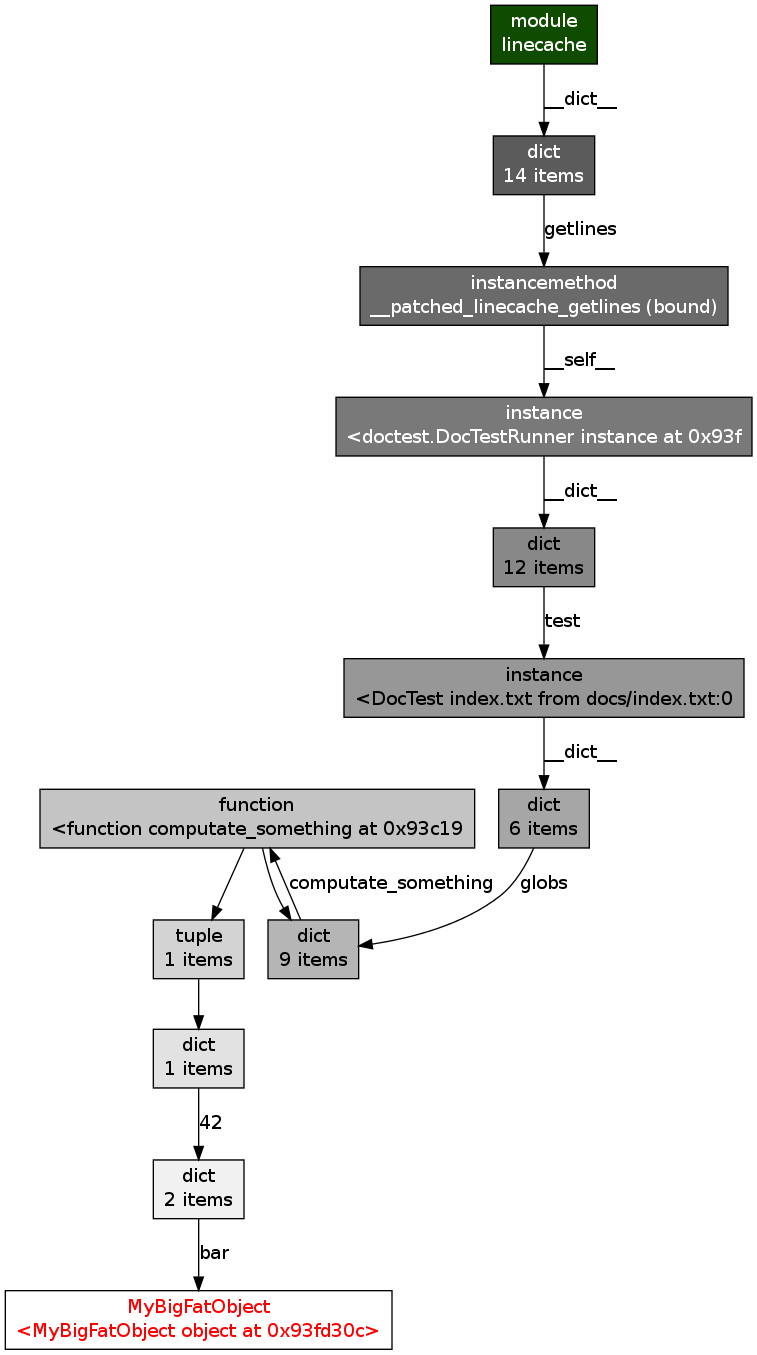
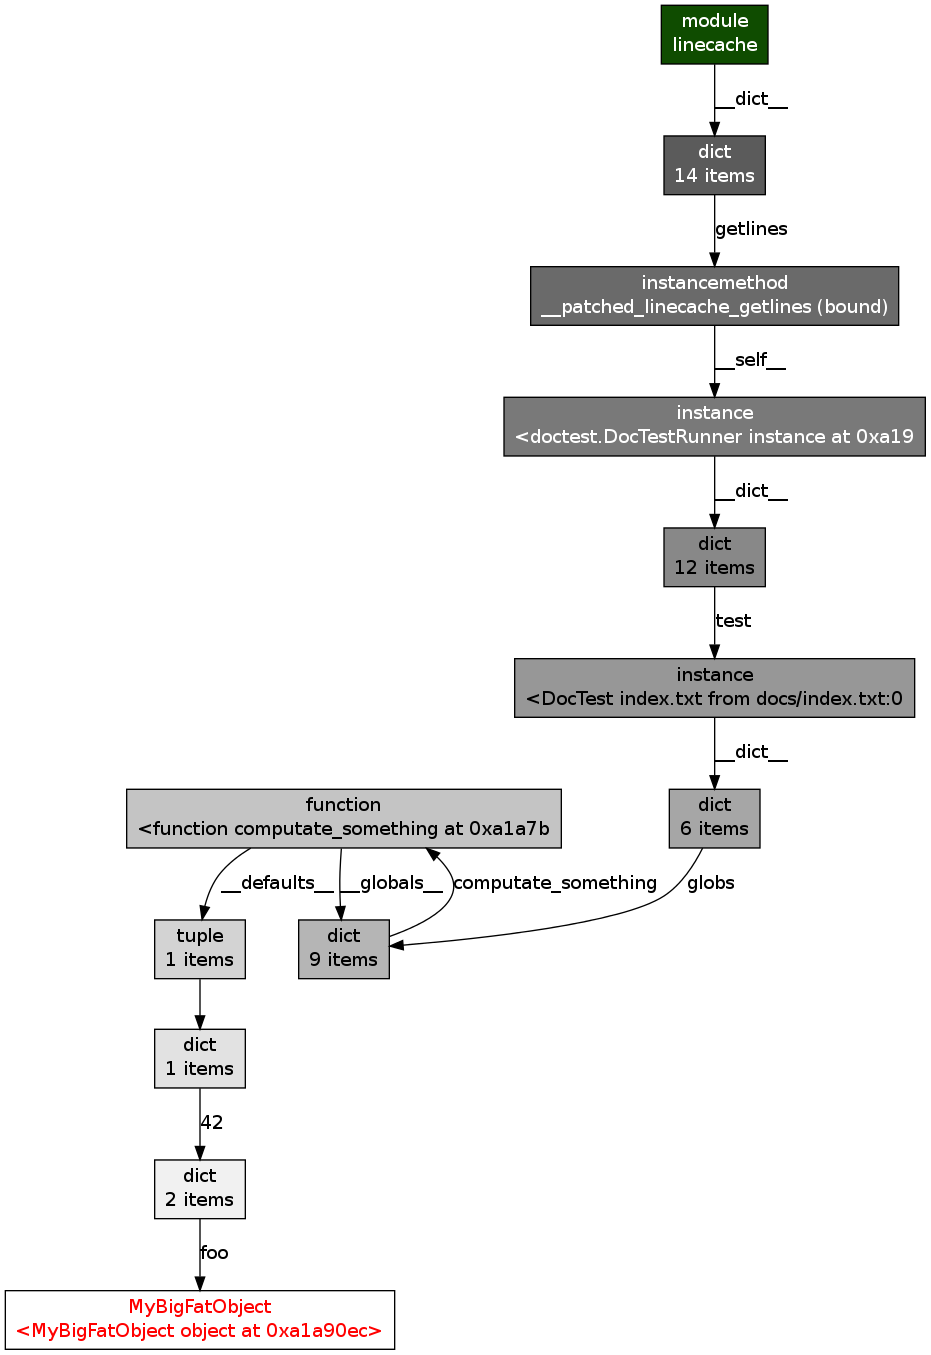
Edges pointing to function attributes such as __defaults__ or __globals__ are now labeled.

Changed region(s): [[0.0, 0.0, 1.0, 1.0]]

diff --git a/objgraph.py b/objgraph.py
@@ -659,6 +659,10 @@ def edge_label(source, target):
                 return ' [label="im_self",weight=10]'
             if target is source.im_func:
                 return ' [label="im_func",weight=10]'
+    if isinstance(source, types.FunctionType):
+        for k in dir(source):
+            if target is getattr(source, k):
+                return ' [label="%s",weight=10]' % quote(k)
     if isinstance(source, dict):
         for k, v in iteritems(source):
             if v is target:
